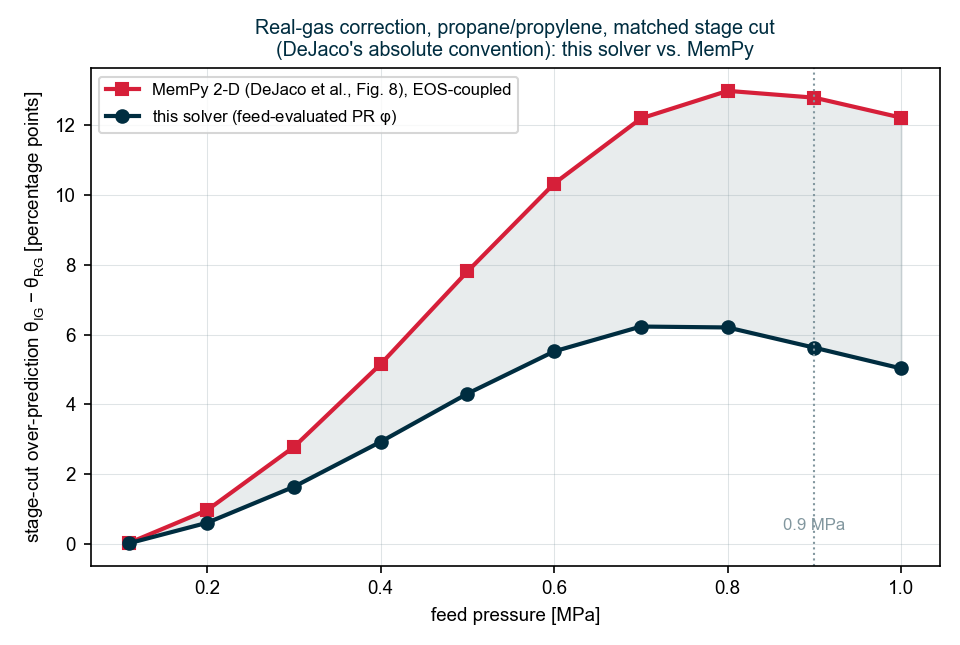
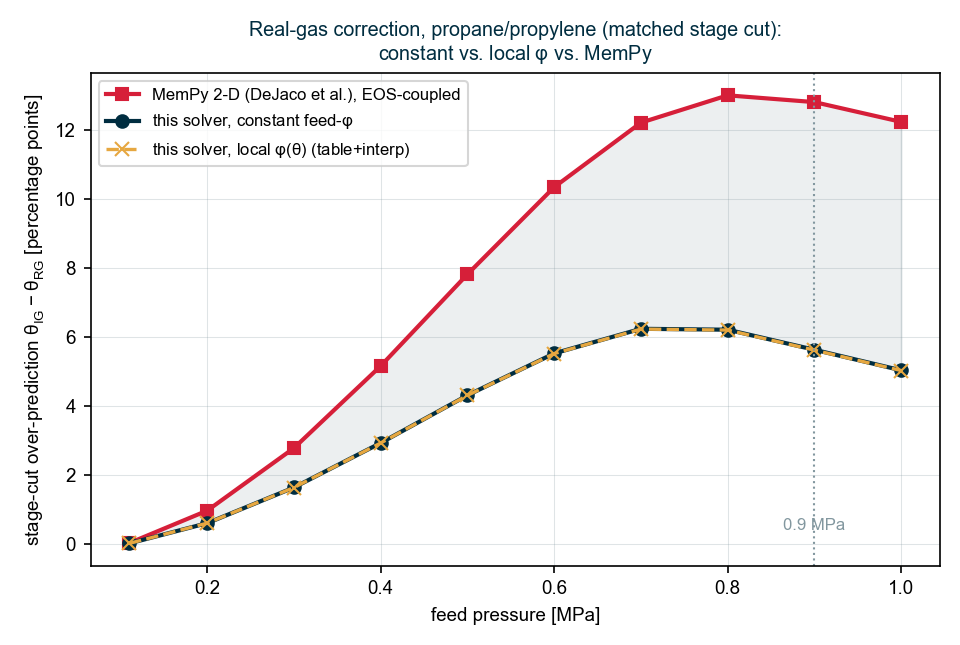
local-phi: cross-check FugacityLocal against MemPy on propane/propylene
Runs the MemPy propane/propylene comparison with the new local phi(theta) mode
and quantifies how much of the gap to MemPy it closes.

Finding: for this system, local phi does NOT close the gap. At matched stage cut
the absolute ideal-gas over-prediction is MemPy ~12.8 points vs this solver
~5.6 points, and constant-feed-phi and local-phi(theta) agree to <0.02 points at
every pressure. Propane and propylene have near-identical fugacity coefficients,
so phi_mix barely varies along the module and the feed-evaluated value already
captures it. The residual factor-of-two is therefore NOT the constant-vs-local
approximation but MemPy coupling the EOS through the density/velocity balances,
whereas this unit applies phi to the driving force only.

- gen: build phi(theta) via PrPhi along the trajectory, solve with the table,
  report absolute over-prediction (points) for MemPy / const-phi / local-phi.
- Figure val_c3_ig_rg: three curves (const and local overlap); docs updated in
  validation.rst and solution_diffusion.rst with the honest conclusion.

diff --git a/docs/techref/figures/make_c3.py b/docs/techref/figures/make_c3.py
@@ -1,7 +1,8 @@
-"""IG/RG stage-cut error on the MemPy propane/propylene system, this solver vs. DeJaco et al., at MATCHED
-stage cut and pressure. Plotted in DeJaco's own convention: the ABSOLUTE stage-cut difference in
-percentage POINTS, 100*(theta_IG - theta_RG) -- so our MemPy curve is directly comparable to their Fig. 8
-(~13 points max). Data: data/c3_ig_rg.csv."""
+"""IG/RG stage-cut error on the MemPy propane/propylene system, at MATCHED stage cut and pressure, in
+DeJaco's absolute convention (percentage POINTS, 100*(theta_IG - theta_RG)). Three curves: MemPy's
+EOS-coupled 2-D model, and this solver with constant feed-evaluated phi and with local phi(theta)
+(table + interpolation). For propane/propylene the two phi treatments nearly coincide (the species have
+near-equal fugacity coefficients), so local phi does not close the gap to MemPy. Data: data/c3_ig_rg.csv."""
 import csv, os
 import numpy as np
 import matplotlib
@@ -15,25 +16,26 @@ plt.rcParams["mathtext.default"] = "regular"
 
 HERE = os.path.dirname(os.path.abspath(__file__))
 rows = list(csv.DictReader(open(os.path.join(HERE, "data", "c3_ig_rg.csv"))))
-pmpa = np.array([float(r["Pf_bar"]) / 10.0 for r in rows])   # bar -> MPa
-tig = np.array([float(r["theta_ig_mempy"]) for r in rows])   # matched IG stage cut
-# absolute stage-cut difference in percentage points (DeJaco Fig. 8 convention)
-abs_mempy = 100.0 * (tig - np.array([float(r["theta_rg_mempy"]) for r in rows]))
-abs_ours = 100.0 * (np.array([float(r["theta_ig_ours"]) for r in rows])
-                    - np.array([float(r["theta_rg_ours"]) for r in rows]))
+pmpa = np.array([float(r["Pf_bar"]) / 10.0 for r in rows])
+tig = np.array([float(r["theta_ig"]) for r in rows])
+tig_mp = np.array([float(r["theta_ig_mempy"]) for r in rows])
+abs_mempy = 100.0 * (tig_mp - np.array([float(r["theta_rg_mempy"]) for r in rows]))
+abs_const = 100.0 * (tig - np.array([float(r["theta_rg_const"]) for r in rows]))
+abs_local = 100.0 * (tig - np.array([float(r["theta_rg_local"]) for r in rows]))
 
 fig, ax = plt.subplots(figsize=(6.4, 4.3))
-ax.plot(pmpa, abs_mempy, "s-", color=RED, lw=2, label="MemPy 2-D (DeJaco et al., Fig. 8), EOS-coupled")
-ax.plot(pmpa, abs_ours, "o-", color=NAVY, lw=2, label="this solver (feed-evaluated PR $\\varphi$)")
-ax.fill_between(pmpa, abs_ours, abs_mempy, color=SLATE, alpha=0.18)
+ax.plot(pmpa, abs_mempy, "s-", color=RED, lw=2, label="MemPy 2-D (DeJaco et al.), EOS-coupled")
+ax.plot(pmpa, abs_const, "o-", color=NAVY, lw=2, label="this solver, constant feed-$\\varphi$")
+ax.plot(pmpa, abs_local, "x--", color=AMBER, lw=1.6, ms=7, label="this solver, local $\\varphi(\\theta)$ (table+interp)")
+ax.fill_between(pmpa, abs_const, abs_mempy, color=SLATE, alpha=0.15)
 ax.axvline(0.9, color=SLATE, ls=":", lw=1)
 ax.annotate("0.9 MPa", (0.9, 0.4), color=SLATE, fontsize=8, ha="center")
 ax.set_xlabel("feed pressure [MPa]")
 ax.set_ylabel(r"stage-cut over-prediction $\theta_{IG}-\theta_{RG}$ [percentage points]")
 ax.grid(True, color=SLATE, alpha=0.25, lw=0.5)
 ax.legend(loc="upper left", fontsize=8)
-ax.set_title("Real-gas correction, propane/propylene, matched stage cut\n"
-             "(DeJaco's absolute convention): this solver vs. MemPy", color=NAVY, fontsize=9.5)
+ax.set_title("Real-gas correction, propane/propylene (matched stage cut):\n"
+             "constant vs. local $\\varphi$ vs. MemPy", color=NAVY, fontsize=9.5)
 fig.tight_layout()
 fig.savefig(os.path.join(HERE, "val_c3_ig_rg.png"), dpi=150)
 print("wrote val_c3_ig_rg.png")

diff --git a/docs/techref/figures/gen/Program.cs b/docs/techref/figures/gen/Program.cs
@@ -2,6 +2,7 @@ using System.Globalization;
 using System.Text;
 using MembraneCore;
 using MembraneCore.Energy;
+using MembraneCore.Fugacity;
 using MembraneCore.Models;
 
 // Generates CSVs (and a stdout summary) for the technical-reference validation figures,
@@ -166,16 +167,38 @@ for (int k = 0; k < mP.Length; k++)
     // Match MemPy's ideal-gas stage cut at this pressure (design mode) so only the EOS effect differs.
     double areaK = BisectAreaForTheta(c3Feed, c3Flow, c3Perm, Pf, c3Pout, mIG[k]);
     var ig = CrossFlowModel.SolveByArea(c3Feed, c3Flow, c3Perm, Pf, c3Pout, areaK);
+
+    // (1) constant, feed-evaluated phi (the current default).
     double[] a = PrPhi(c3T, Pf, c3Feed, c3Tc, c3Pc, c3W, c3kij);
     double[] bb = PrPhi(c3T, c3Pout, c3Feed, c3Tc, c3Pc, c3W, c3kij);
-    var rg = CrossFlowModel.SolveByArea(c3Feed, c3Flow, c3Perm, Pf, c3Pout, areaK, a: a, b: bb);
-    double ourErr = 100 * (ig.StageCut - rg.StageCut) / rg.StageCut;
-    double memErr = 100 * (mIG[k] - mRG[k]) / mRG[k];
-    c3Rows.Add($"{F(mP[k])},{F(ig.StageCut)},{F(rg.StageCut)},{F(ourErr)},{F(mIG[k])},{F(mRG[k])},{F(memErr)},{F(a[0])}");
+    var rgConst = CrossFlowModel.SolveByArea(c3Feed, c3Flow, c3Perm, Pf, c3Pout, areaK, a: a, b: bb);
+
+    // (2) local phi(theta): PR fugacity coefficients tabulated along the composition trajectory + interpolation.
+    var prof = CrossFlowModel.SolveByArea(c3Feed, c3Flow, c3Perm, Pf, c3Pout, areaK, profilePoints: 40).Profile!;
+    var thetas = new List<double>(); var aRows = new List<double[]>(); var bRows = new List<double[]>();
+    double lastT = -1.0;
+    for (int p = 0; p < prof.Points; p++)
+    {
+        double th = prof.StageCut[p];
+        if (th <= lastT + 1e-4) continue;
+        var xk = new double[] { prof.Retentate[0][p], prof.Retentate[1][p] };
+        var yk = new double[] { prof.PermeateCollected[0][p], prof.PermeateCollected[1][p] };
+        double sy = yk[0] + yk[1]; if (sy > 0) { yk[0] /= sy; yk[1] /= sy; }
+        thetas.Add(th); aRows.Add(PrPhi(c3T, Pf, xk, c3Tc, c3Pc, c3W, c3kij));
+        bRows.Add(PrPhi(c3T, c3Pout, yk, c3Tc, c3Pc, c3W, c3kij)); lastT = th;
+    }
+    var table = new FugacityTable(thetas.ToArray(), aRows.ToArray(), bRows.ToArray());
+    var rgLocal = CrossFlowModel.SolveByArea(c3Feed, c3Flow, c3Perm, Pf, c3Pout, areaK, phiTable: table);
+
+    c3Rows.Add($"{F(mP[k])},{F(ig.StageCut)},{F(rgConst.StageCut)},{F(rgLocal.StageCut)},{F(mIG[k])},{F(mRG[k])},{F(a[0])}");
     if (Math.Abs(mP[k] - 9) < 1e-9)
-        Console.WriteLine($"  9 bar (theta matched to MemPy {F(mIG[k])}): ours RG={F(rg.StageCut)} over-pred={F(ourErr)}% | MemPy RG={F(mRG[k])} over-pred={F(memErr)}%; phi_C3H6={F(a[0])}");
+    {
+        double absMem = 100 * (mIG[k] - mRG[k]), absConst = 100 * (ig.StageCut - rgConst.StageCut), absLocal = 100 * (ig.StageCut - rgLocal.StageCut);
+        Console.WriteLine($"  9 bar (theta_IG={F(mIG[k])}): absolute over-pred [pts]  MemPy={F(absMem)}  const-phi={F(absConst)}  local-phi={F(absLocal)}");
+        Console.WriteLine($"           gap to MemPy closed by local-phi: {F(100 * (absLocal - absConst) / (absMem - absConst))}%");
+    }
 }
-WriteCsv("c3_ig_rg.csv", "Pf_bar,theta_ig_ours,theta_rg_ours,over_pred_ours,theta_ig_mempy,theta_rg_mempy,over_pred_mempy,phiC3H6", c3Rows);
+WriteCsv("c3_ig_rg.csv", "Pf_bar,theta_ig,theta_rg_const,theta_rg_local,theta_ig_mempy,theta_rg_mempy,phiC3H6", c3Rows);
 
 Console.WriteLine("done.");
 

diff --git a/docs/techref/validation.rst b/docs/techref/validation.rst
@@ -327,19 +327,27 @@ at roughly **half**: :math:`\sim6` points at 0.9 MPa.
    Ideal-gas stage-cut over-prediction (absolute, percentage points --- DeJaco's
    Fig. 8 convention) vs. feed pressure for the MemPy propane/propylene system,
    at matched stage cut: MemPy's EOS-coupled 2-D model (red, :math:`\sim13`
-   points) and this solver's feed-evaluated-:math:`\varphi` cross-flow (navy,
-   :math:`\sim6` points).
+   points), this solver with constant feed-:math:`\varphi` (navy, :math:`\sim6`
+   points) and with local :math:`\varphi(\theta)` (amber, table + interpolation).
 
-Our first-order correction thus captures the **right sign and trend** and removes
-roughly **40--45 %** of the ideal-gas error, but under-predicts the full effect
-by about a factor of two (:math:`\sim6` vs. :math:`\sim13` points; :math:`\sim7`
-vs. :math:`\sim18\%` relative). The difference is expected: MemPy couples the
-equation of state *locally throughout* the density/velocity balances (and
-resolves a channel pressure drop), whereas the unit applies a single
-feed-evaluated fugacity coefficient to the driving force only. It is a genuine
-screening-level correction --- better than ideal gas, short of a fully
-EOS-coupled 2-D model --- and this factor-of-two shortfall is a documented
-limitation (:ref:`sec-limitations`).
+**Does updating** :math:`\varphi` **along the module close the gap? For this
+system, no.** The local-:math:`\varphi` curve (amber) sits essentially on top of
+the constant-feed-:math:`\varphi` curve --- the two differ by :math:`<0.02`
+points at every pressure. The reason is physical: propane and propylene have
+nearly identical fugacity coefficients (similar :math:`T_c, P_c, \omega`), so the
+mixture :math:`\varphi` barely changes as the composition shifts along the
+module; the feed-evaluated value already captures it. Updating :math:`\varphi`
+locally would matter for a mixture whose components' :math:`\varphi` differ
+strongly, but not here.
+
+The remaining factor-of-two shortfall (:math:`\sim6` vs. :math:`\sim13` points)
+is therefore **not** the constant-vs-local :math:`\varphi` approximation --- it
+is that MemPy couples the equation of state *throughout* the molar-density and
+velocity balances (and resolves a channel pressure drop), whereas the unit
+applies :math:`\varphi` to the **driving force only**. That is the real limit of
+a driving-force fugacity correction, constant or local (:ref:`sec-limitations`).
+Even so it captures the right sign and trend and removes :math:`\sim40\text{--}45\%`
+of the ideal-gas error --- a genuine screening-level improvement over ideal gas.
 
 .. _sec-real-gas:
 

diff --git a/docs/techref/solution_diffusion.rst b/docs/techref/solution_diffusion.rst
@@ -104,9 +104,14 @@ cut :math:`\theta` (independent of area), the PME is evaluated at a coarse set o
 :math:`\theta` breakpoints once and the marching solver reads :math:`\varphi` by
 linear interpolation at every step --- position-dependent coefficients at
 :math:`\mathcal{O}(10^2)` PME calls per solve rather than the two of the
-feed-evaluated default. It narrows the residual gap to a fully EOS-coupled model
-at the cost of those extra evaluations; the feed-evaluated ``Fugacity`` remains
-the default.
+feed-evaluated default. It changes the result appreciably **only when the
+components' fugacity coefficients differ enough that** :math:`\varphi_\mathrm{mix}`
+**varies along the module**; for a near-ideal mixture such as propane/propylene
+it is within :math:`<0.02` stage-cut points of the feed-evaluated value
+(:ref:`sec-val-ig-rg`). The residual gap to a fully EOS-coupled model is
+dominated not by *where* :math:`\varphi` is evaluated but by the fact that the
+unit applies :math:`\varphi` to the driving force alone (not to the density and
+velocity balances). The feed-evaluated ``Fugacity`` remains the default.
 
 .. _sec-pressure-ratio-limit:
 
